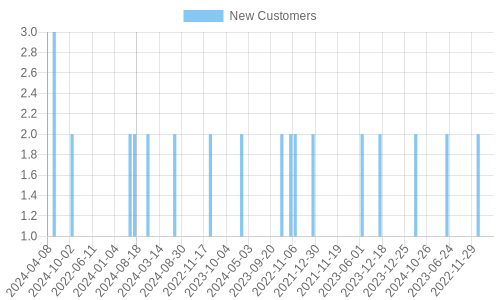
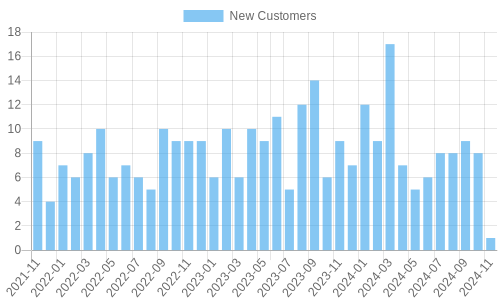
made changes to data grouping

diff --git a/script.js b/script.js
@@ -243,9 +243,12 @@ function loadDisputesData() {
 // Function to analyze revenue and sales trends over the past year
 function revenueAndSalesTrends() {
     var lastYear = (0, date_fns_1.subYears)(new Date(), 1);
-    var recentPayments = payments_df.data.filter(function (payment) { return payment.payment_date >= lastYear; });
+    var sortedPayments = payments_df.data.sort(function (a, b) {
+        return a.payment_date.getTime() - b.payment_date.getTime();
+    });
+    var recentPayments = sortedPayments.filter(function (payment) { return payment.payment_date >= lastYear; });
     var revenueTrends = recentPayments.reduce(function (acc, payment) {
-        var paymentDate = (0, date_fns_1.format)(payment.payment_date, 'yyyy-MM-dd');
+        var paymentDate = (0, date_fns_1.format)(payment.payment_date, 'yyyy-MM');
         if (!acc[paymentDate]) {
             acc[paymentDate] = { total_revenue: 0, total_transactions: 0 };
         }
@@ -253,8 +256,8 @@ function revenueAndSalesTrends() {
         acc[paymentDate].total_transactions += 1;
         return acc;
     }, {});
-    // console.log("\nRevenue and Sales Trends Over the Past Year:");
-    // console.log(revenueTrends);
+    console.log("\nRevenue and Sales Trends Over the Past Year:");
+    console.log(revenueTrends);
     return {
         revenue_trends: revenueTrends
     };
@@ -262,20 +265,24 @@ function revenueAndSalesTrends() {
 // Function to analyze customer growth and retention rates
 function customerGrowthAndRetention() {
     var oneYearAgo = (0, date_fns_1.subYears)(new Date(), 1);
-    var customerGrowth = customers_df.data.reduce(function (acc, customer) {
-        var addedOnDate = (0, date_fns_1.format)(customer.added_on, 'yyyy-MM-dd');
-        if (!acc[addedOnDate]) {
-            acc[addedOnDate] = 0;
+    var sixMonthsAgo = (0, date_fns_1.subDays)(new Date(), 180);
+    var sortedCustomers = customers_df.data.sort(function (a, b) {
+        return a.added_on.getTime() - b.added_on.getTime();
+    });
+    var customerGrowth = sortedCustomers.reduce(function (acc, customer) {
+        var addedOnMonth = (0, date_fns_1.format)(customer.added_on, 'yyyy-MM');
+        if (!acc[addedOnMonth]) {
+            acc[addedOnMonth] = 0;
         }
-        acc[addedOnDate]++;
+        acc[addedOnMonth]++;
         return acc;
     }, {});
     var startCustomers = customers_df.data.filter(function (customer) { return customer.added_on <= oneYearAgo; }).length;
     var newCustomers = customers_df.data.filter(function (customer) { return customer.added_on >= oneYearAgo; }).length;
-    var endCustomers = customers_df.data.filter(function (customer) { return customer.last_transaction >= oneYearAgo; }).length;
+    var endCustomers = customers_df.data.filter(function (customer) { return customer.last_transaction >= sixMonthsAgo; }).length;
     var retentionRate = startCustomers > 0 ? ((endCustomers - newCustomers) / startCustomers) * 100 : 0;
-    // console.log("\nCustomer Growth (New Customers per Month):");
-    // console.log(customerGrowth);
+    console.log("\nCustomer Growth (New Customers per Month):");
+    console.log(customerGrowth);
     console.log("\nCustomer Retention Rate: ".concat(retentionRate.toFixed(2), "%"));
     return {
         customers_gained_each_month: customerGrowth,
@@ -310,11 +317,14 @@ function disputeAnalysis() {
 }
 // Function to analyze subscription performance
 function subscriptionPerformance() {
-    var subscriptionItems = payments_df.data.filter(function (payment) { return payment.item.includes("subscription"); });
+    var sortedPayments = payments_df.data.sort(function (a, b) {
+        return a.payment_date.getTime() - b.payment_date.getTime();
+    });
+    var subscriptionItems = sortedPayments.filter(function (payment) { return payment.item.includes("subscription"); });
     var totalSubscriptions = subscriptionItems.length;
     var uniqueSubscribers = new Set(subscriptionItems.map(function (payment) { return payment.customer_email; })).size;
     var subscriptionHistory = subscriptionItems.reduce(function (acc, payment) {
-        var paymentDate = (0, date_fns_1.format)(payment.payment_date, 'yyyy-MM-dd');
+        var paymentDate = (0, date_fns_1.format)(payment.payment_date, 'yyyy-MM');
         if (!acc[paymentDate]) {
             acc[paymentDate] = { total_subscriptions: 0, total_revenue: 0 };
         }
@@ -415,7 +425,6 @@ function performanceComparison() {
     var currentDate = new Date();
     var currentYear = currentDate.getFullYear();
     var currentMonth = currentDate.getMonth();
-    // Determine last month and year
     var lastMonth = currentMonth === 0 ? 11 : currentMonth - 1; // December if current is January
     var lastYear = currentMonth === 0 ? currentYear - 1 : currentYear; // Previous year if current is January
     var currentMonthSales = payments_df.data
@@ -491,7 +500,7 @@ function plotCustomerGrowth(customerGrowth) {
                             added_on: added_on,
                             new_customers: new_customers,
                         });
-                    }).slice(0, 100);
+                    });
                     chart = new QuickChart();
                     chart.setConfig({
                         type: 'bar',
@@ -531,7 +540,7 @@ function plotRevenueAndSales(revenueTrends) {
                             total_revenue: total_revenue,
                             total_transactions: total_transactions,
                         });
-                    }).slice(0, 100);
+                    });
                     chart = new QuickChart();
                     chart.setConfig({
                         type: 'line',
@@ -579,7 +588,7 @@ function plotSubscriptionPerformance(subscriptionHistory) {
                             payment_date: payment_date,
                             total_subscriptions: total_subscriptions,
                         });
-                    }).slice(0, 100);
+                    });
                     chart = new QuickChart();
                     chart.setConfig({
                         type: 'bar',
@@ -888,24 +897,27 @@ function loadData() {
         .then(function () { return __awaiter(_this, void 0, void 0, function () {
         var sr, cgr, da, sp, pp, psp, satm, rst, csg, pc;
         return __generator(this, function (_a) {
-            sr = calculateSuccessRate();
-            cgr = customerGrowthAndRetention();
-            da = disputeAnalysis();
-            sp = subscriptionPerformance();
-            pp = productPerformance();
-            psp = peakShoppingTimes();
-            satm = salesAnalysisThisMonth();
-            rst = revenueAndSalesTrends();
-            csg = customerSegmentation();
-            pc = performanceComparison();
-            // await plotCustomerGrowth(cgr.customers_gained_each_month);
-            // await plotRevenueAndSales(rst.revenue_trends);
-            // await plotSubscriptionPerformance(sp.subscription_history);
-            // await plotProductPerformance(pp.product_sales_history);
-            // await plotPeakShoppingTimes(psp.peak_shopping_times);
-            // await plotTopProducts(satm.top_products_this_month);
-            createPdfReport(sr, da, satm);
-            return [2 /*return*/];
+            switch (_a.label) {
+                case 0:
+                    sr = calculateSuccessRate();
+                    cgr = customerGrowthAndRetention();
+                    da = disputeAnalysis();
+                    sp = subscriptionPerformance();
+                    pp = productPerformance();
+                    psp = peakShoppingTimes();
+                    satm = salesAnalysisThisMonth();
+                    rst = revenueAndSalesTrends();
+                    csg = customerSegmentation();
+                    pc = performanceComparison();
+                    // await plotCustomerGrowth(cgr.customers_gained_each_month);
+                    // await plotRevenueAndSales(rst.revenue_trends);
+                    return [4 /*yield*/, plotSubscriptionPerformance(sp.subscription_history)];
+                case 1:
+                    // await plotCustomerGrowth(cgr.customers_gained_each_month);
+                    // await plotRevenueAndSales(rst.revenue_trends);
+                    _a.sent();
+                    return [2 /*return*/];
+            }
         });
     }); })
         .catch(function (error) {

diff --git a/script.ts b/script.ts
@@ -5,7 +5,7 @@ const QuickChart = require('quickchart-js');
 import { faker } from '@faker-js/faker';
 import { createReadStream, writeFile } from 'fs';
 import { PDFDocument, rgb } from 'pdf-lib'; // Replace pdfkit with pdf-lib
-import { format, parseISO, subYears, isBefore, subMonths, getMonth } from 'date-fns'; // Replace moment with date-fns
+import { format, parseISO, subYears, isBefore, subMonths, getMonth, subDays } from 'date-fns'; // Replace moment with date-fns
 import * as fs from 'fs';
 import { writeFileSync } from 'fs';
 import { title } from 'process';
@@ -141,9 +141,9 @@ const customersCsv = customers.map(customer => `${customer.name},${customer.emai
 const disputesCsv = disputes.map(dispute => `${dispute.customer_email},${dispute.date_created.toISOString()},${dispute.date_resolved ? dispute.date_resolved.toISOString() : ''},${dispute.status}`).join('\n');
 
 // Save to CSV files
-fs.writeFileSync('fake_customers_data.csv', customersCsv);
-fs.writeFileSync('fake_disputes_data.csv', disputesCsv);
-fs.writeFileSync('fake_payments_data.csv', paymentsCsv);
+// fs.writeFileSync('fake_customers_data.csv', customersCsv);
+// fs.writeFileSync('fake_disputes_data.csv', disputesCsv);
+// fs.writeFileSync('fake_payments_data.csv', paymentsCsv);
 
 console.log("Customers:");
 console.log(customers.slice(0, 5));
@@ -259,10 +259,14 @@ function loadDisputesData(): Promise<void> {
 // Function to analyze revenue and sales trends over the past year
 function revenueAndSalesTrends() {
     const lastYear = subYears(new Date(), 1);
-    const recentPayments = payments_df.data.filter(payment => payment.payment_date >= lastYear);
+
+    const sortedPayments = payments_df.data.sort((a, b) => 
+        a.payment_date.getTime() - b.payment_date.getTime()
+    );
+    const recentPayments = sortedPayments.filter(payment => payment.payment_date >= lastYear);
 
     const revenueTrends = recentPayments.reduce((acc, payment) => {
-        const paymentDate = format(payment.payment_date, 'yyyy-MM-dd');
+        const paymentDate = format(payment.payment_date, 'yyyy-MM');
         if (!acc[paymentDate]) {
             acc[paymentDate] = { total_revenue: 0, total_transactions: 0 };
         }
@@ -271,8 +275,8 @@ function revenueAndSalesTrends() {
         return acc;
     }, {});
 
-    // console.log("\nRevenue and Sales Trends Over the Past Year:");
-    // console.log(revenueTrends);
+    console.log("\nRevenue and Sales Trends Over the Past Year:");
+    console.log(revenueTrends);
 
     return {
         revenue_trends: revenueTrends
@@ -282,23 +286,28 @@ function revenueAndSalesTrends() {
 // Function to analyze customer growth and retention rates
 function customerGrowthAndRetention() {
     const oneYearAgo = subYears(new Date(), 1);
-    const customerGrowth = customers_df.data.reduce((acc, customer) => {
-        const addedOnDate = format(customer.added_on, 'yyyy-MM-dd');
-        if (!acc[addedOnDate]) {
-            acc[addedOnDate] = 0;
+    const sixMonthsAgo = subDays(new Date(), 180);
+    const sortedCustomers = customers_df.data.sort((a, b) => 
+        a.added_on.getTime() - b.added_on.getTime()
+    );
+    const customerGrowth = sortedCustomers.reduce((acc, customer) => {
+        const addedOnMonth = format(customer.added_on, 'yyyy-MM');
+        if (!acc[addedOnMonth]) {
+            acc[addedOnMonth] = 0;
         }
-        acc[addedOnDate]++;
+        acc[addedOnMonth]++;
         return acc;
     }, {});
 
+    
     const startCustomers = customers_df.data.filter(customer => customer.added_on <= oneYearAgo).length;
     const newCustomers = customers_df.data.filter(customer => customer.added_on >= oneYearAgo).length;
-    const endCustomers = customers_df.data.filter(customer => customer.last_transaction >= oneYearAgo).length;
+    const endCustomers = customers_df.data.filter(customer => customer.last_transaction >= sixMonthsAgo).length;
 
     const retentionRate = startCustomers > 0 ? ((endCustomers - newCustomers) / startCustomers) * 100 : 0;
 
-    // console.log("\nCustomer Growth (New Customers per Month):");
-    // console.log(customerGrowth);
+    console.log("\nCustomer Growth (New Customers per Month):");
+    console.log(customerGrowth);
     console.log(`\nCustomer Retention Rate: ${retentionRate.toFixed(2)}%`);
 
     return {
@@ -306,6 +315,7 @@ function customerGrowthAndRetention() {
         retention_rate_over_last_year: retentionRate,
     };
 }
+
 
 // Function to analyze disputes
 function disputeAnalysis() {
@@ -339,13 +349,18 @@ function disputeAnalysis() {
 
 // Function to analyze subscription performance
 function subscriptionPerformance() {
-    const subscriptionItems = payments_df.data.filter(payment => payment.item.includes("subscription"));
+
+    const sortedPayments = payments_df.data.sort((a, b) => 
+        a.payment_date.getTime() - b.payment_date.getTime()
+    );
+    const subscriptionItems = sortedPayments.filter(payment => payment.item.includes("subscription"));
 
     const totalSubscriptions = subscriptionItems.length;
     const uniqueSubscribers = new Set(subscriptionItems.map(payment => payment.customer_email)).size;
 
     const subscriptionHistory = subscriptionItems.reduce((acc, payment) => {
-        const paymentDate = format(payment.payment_date, 'yyyy-MM-dd');
+        
+        const paymentDate = format(payment.payment_date, 'yyyy-MM');
         if (!acc[paymentDate]) {
             acc[paymentDate] = { total_subscriptions: 0, total_revenue: 0 };
         }
@@ -542,7 +557,7 @@ async function plotCustomerGrowth(customerGrowth: Record<string, number>) {
     const customerGrowthArray = Object.entries(customerGrowth).map(([added_on, new_customers]) => ({
         added_on,
         new_customers,
-    })).slice(0, 100);
+    }));
 
     const chart = new QuickChart();
     chart.setConfig({
@@ -573,7 +588,7 @@ async function plotRevenueAndSales(revenueTrends: Record<string, { total_revenue
         payment_date,
         total_revenue,
         total_transactions,
-    })).slice(0, 100);
+    }));
 
     const chart = new QuickChart();
     chart.setConfig({
@@ -612,7 +627,7 @@ async function plotSubscriptionPerformance(subscriptionHistory: Record<string, {
     const subscriptionArray = Object.entries(subscriptionHistory).map(([payment_date, { total_subscriptions }]) => ({
         payment_date,
         total_subscriptions,
-    })).slice(0, 100);
+    }));
 
     const chart = new QuickChart();
     chart.setConfig({
@@ -891,13 +906,13 @@ function loadData() {
             const rst = revenueAndSalesTrends()
             const csg = customerSegmentation()
             const pc = performanceComparison()
-            await plotCustomerGrowth(cgr.customers_gained_each_month);
-            await plotRevenueAndSales(rst.revenue_trends);
+            // await plotCustomerGrowth(cgr.customers_gained_each_month);
+            // await plotRevenueAndSales(rst.revenue_trends);
             await plotSubscriptionPerformance(sp.subscription_history);
-            await plotProductPerformance(pp.product_sales_history);
-            await plotPeakShoppingTimes(psp.peak_shopping_times);
-            await plotTopProducts(satm.top_products_this_month);
-            createPdfReport(sr, da, satm);
+            // await plotProductPerformance(pp.product_sales_history);
+            // await plotPeakShoppingTimes(psp.peak_shopping_times);
+            // await plotTopProducts(satm.top_products_this_month);
+            // createPdfReport(sr, da, satm);
         })
         .catch((error) => {
             console.error("Error loading data:", error);
